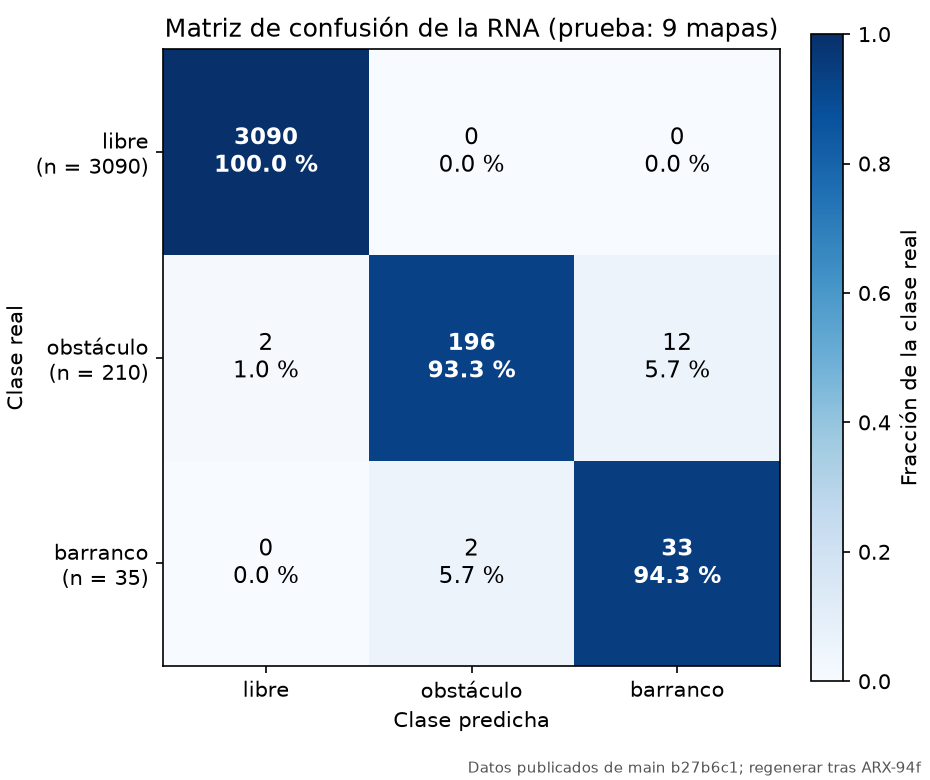
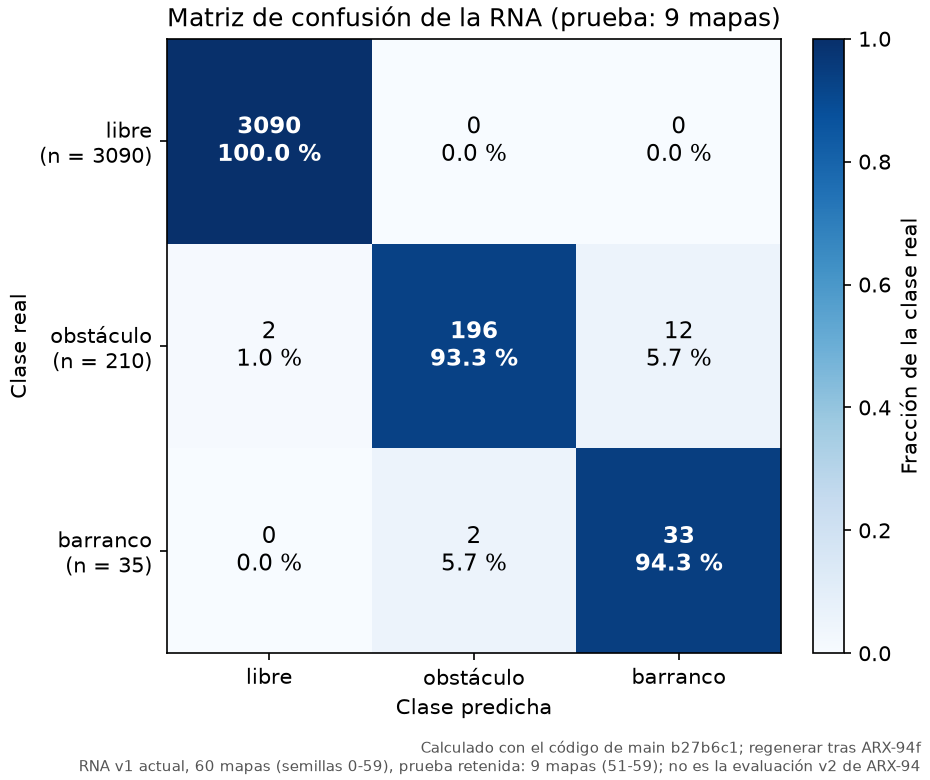
Figuras: pies que dicen qué se usó, celda del notebook robusta a la ruta, PNG regenerados

diff --git a/scripts/generar_figuras.py b/scripts/generar_figuras.py
@@ -1,7 +1,7 @@
 """Genera docs/figuras/matriz_confusion.png y docs/figuras/ablacion.png.
 
 Uso (desde ares_x/):  python scripts/generar_figuras.py [escenario] [--version HASH]
-Cada figura lleva un pie con la versión de main con que se generó (por defecto, git rev-parse --short main).
+Cada figura lleva un pie con la versión de main y lo que se usó (la matriz se calcula al generar; la ablación sale del JSON publicado) (por defecto, git rev-parse --short main).
 La ablación sale de docs/COMPARACION_POLITICAS[_<escenario>].json (sin escenario: el exigente). La matriz de confusión
 se calcula con la misma configuración del notebook (60 mapas, 400 muestras por mapa, semilla 42), generando los mapas
 de a uno y en un solo hilo, y se evalúa en los mapas de prueba.
@@ -40,8 +40,15 @@ def version_de_main():
         return "versión desconocida"
 
 
-def _pie(version):
-    return f"Datos publicados de main {version}; regenerar tras ARX-94f" if version != "versión desconocida"         else "Datos publicados: versión desconocida; regenerar tras ARX-94f"
+def pie_matriz(version, n_mapas):
+    return (f"Calculado con el código de main {version}; regenerar tras ARX-94f\n"
+            f"RNA v1 actual, 60 mapas (semillas 0-59), prueba retenida: {n_mapas} mapas (51-59); "
+            "no es la evaluación v2 de ARX-94")
+
+
+def pie_ablacion(version):
+    return (f"Datos publicados de main {version}; regenerar tras ARX-94f\n"
+            "Semillas 1-20 del experimento (ya vistas al desarrollar)")
 
 
 def figura_matriz(version):
@@ -50,14 +57,14 @@ def figura_matriz(version):
     X_te, y_te = _por_mapa(te)
     res = NeuralPerception(semilla=42).entrenar(X_tr, y_tr).evaluar(X_te, y_te)
     return plot_matriz_confusion(res.matriz_confusion, list(CLASES.values()),
-                                 titulo=f"Matriz de confusión de la RNA (prueba: {len(te)} mapas)", pie=_pie(version))
+                                 titulo=f"Matriz de confusión de la RNA (prueba: {len(te)} mapas)", pie=pie_matriz(version, len(te)))
 
 
 def figura_ablacion(escenario, version):
     nombre = "COMPARACION_POLITICAS.json" if escenario == "base" else f"COMPARACION_POLITICAS_{escenario}.json"
     with open(os.path.join(RAIZ, "docs", nombre), encoding="utf-8") as f:
         datos = json.load(f)
-    return plot_ablacion(datos["variantes"], escenario=datos.get("escenario"), pie=_pie(version))
+    return plot_ablacion(datos["variantes"], escenario=datos.get("escenario"), pie=pie_ablacion(version))
 
 
 if __name__ == "__main__":

diff --git a/construir_notebook.py b/construir_notebook.py
@@ -141,12 +141,16 @@ CELDA_FIGURAS = """# Figuras 2D del informe (matriz de confusión y ablación). 
 from pathlib import Path
 from IPython.display import Image, display
 
-for _nombre in ("matriz_confusion.png", "ablacion.png"):
-    _ruta = Path("docs") / "figuras" / _nombre
-    if _ruta.exists():
-        display(Image(filename=str(_ruta)))
-    else:
-        print("Figura no generada:", _nombre)
+# La carpeta se busca desde el directorio actual (ares_x/ o su carpeta madre); si falta, solo se avisa.
+_carpeta = next((c for c in (Path("docs/figuras"), Path("ares_x/docs/figuras")) if c.is_dir()), None)
+if _carpeta is None:
+    print("Figuras no encontradas: ejecutar el notebook desde ares_x/ y generarlas con scripts/generar_figuras.py")
+else:
+    for _nombre in ("matriz_confusion.png", "ablacion.png"):
+        if (_carpeta / _nombre).exists():
+            display(Image(filename=str(_carpeta / _nombre)))
+        else:
+            print("Figura no generada:", _nombre)
 """
 
 CELDA_CONCLUSIONES = """## 7. Resultados, limitaciones y conclusiones

diff --git a/viz.py b/viz.py
@@ -28,7 +28,8 @@ ROTULOS_VARIANTES = {
 
 def _pie(fig, pie):
     if pie:
-        fig.get_layout_engine().set(rect=(0, 0.04, 1, 0.96))  # deja sitio al pie
+        base = 0.03 * (1 + pie.count(chr(10))) + 0.01
+        fig.get_layout_engine().set(rect=(0, base, 1, 1 - base))  # deja sitio al pie
         fig.text(0.99, 0.005, pie, ha="right", va="bottom", fontsize=7, color="#555555")
 
 

diff --git a/docs/figuras/LEYENDA.md b/docs/figuras/LEYENDA.md
@@ -4,6 +4,8 @@ Se regeneran con `python scripts/generar_figuras.py` (desde `ares_x/`).
 
 ## matriz_confusion.png
 
+Qué se usó: RNA v1 actual de main, 60 mapas (semillas 0-59), prueba retenida en los mapas 51-59; no es la evaluación v2 de ARX-94.
+
 Matriz de confusión de la RNA de percepción en los mapas de prueba (9 mapas, 3 535 muestras). Filas: clase real (libre,
 obstáculo, barranco); columnas: clase predicha. Cada celda trae el conteo y el porcentaje de su fila; el color azul más
 oscuro indica mayor fracción de la clase real. Lectura: la clase libre se acierta en 3 090 de 3 090 casos; el obstáculo
@@ -11,6 +13,8 @@ en 196 de 210 (93,3 %), con 12 confundidos con barranco y 2 con libre; el barran
 confundidos con obstáculo y ninguno con libre. Cifras de la ejecución con semilla 42 y 400 muestras por mapa.
 
 ## ablacion.png
+
+Qué se usó: semillas 1-20 del experimento (ya vistas al desarrollar el sistema).
 
 Comparación de políticas en el escenario exigente (20 semillas por variante), en tres paneles que comparten las
 variantes en el eje vertical: tasa de éxito (%), pasos por misión (media con barra de desviación) y colisiones por misión
@@ -23,5 +27,5 @@ del color.
 
 ## Versión de los datos
 
-Cada PNG lleva al pie «Datos publicados de main <hash>; regenerar tras ARX-94f». Hay que regenerarlas tras ARX-94f,
+Cada PNG lleva un pie con la versión. La matriz dice «Calculado con el código de main <hash>; regenerar tras ARX-94f» (se recalcula al generar). La ablación dice «Datos publicados de main <hash>; regenerar tras ARX-94f» (sale del JSON publicado). Hay que regenerarlas tras ARX-94f,
 porque las cifras publicadas cambian con el rediseño de sensores. Ver `docs/planes/ARX-100_figuras.md`.

diff --git a/docs/planes/ARX-100_figuras.md b/docs/planes/ARX-100_figuras.md
@@ -7,6 +7,8 @@ la figura. `scripts/generar_figuras.py` lee `docs/COMPARACION_POLITICAS_exigente
 (60 mapas, 400 muestras por mapa, semilla 42, un mapa a la vez y a un hilo) y escribe `docs/figuras/matriz_confusion.png`
 y `docs/figuras/ablacion.png`. El notebook las muestra con una celda que solo actúa si los archivos existen.
 
+**Pies de figura.** Matriz: «Calculado con el código de main <hash>», RNA v1, 60 mapas (semillas 0-59), prueba en 51-59, no es la evaluación v2 de ARX-94. Ablación: «Datos publicados de main <hash>», semillas 1-20 (ya vistas). La celda del notebook busca `docs/figuras` o `ares_x/docs/figuras` y avisa si no está.
+
 **Cómo regenerar** (desde `ares_x/`):
 `OMP_NUM_THREADS=1 python scripts/generar_figuras.py [escenario] [--version HASH]`.
 Sin `--version`, el pie toma `git rev-parse --short main`; sin git, escribe «versión desconocida».
